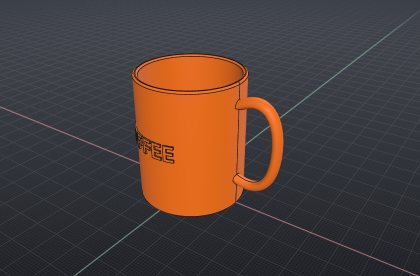
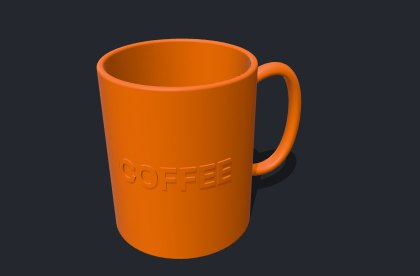
Polish: flat colours, cleaner pills, working Help menu, better examples
- Help menu on the home screen: How to move around and Find a tool now
  leave the home screen first (they opened behind it); Ctrl+K too.
- Delete account (and other confirm-to-delete buttons): a solid red
  button instead of red text on blue.
- The 'New here?' card has a close button that hides it for good.
- No gradients: flat startup screen, progress bar, tutorial card, picture
  frames and 3D view background.
- Pills: smaller, squarer corners; the update pill no longer jumps to the
  middle of the top bar while downloading (it shared the 'busy' class with
  the working indicator), and its icon and text are centred.
- Examples: pictures rendered with materials and shadows and framed
  closer, shown whole; a better phone stand (lip, angled back, cable hole);
  new spur gear and desk organizer.

Claude-Session: https://claude.ai/code/session_01JuhnazVxR9eac14QWc26d7

diff --git a/src/styles/app.css b/src/styles/app.css
@@ -1156,6 +1156,17 @@ body.resizing-panel .items-panel {
   color: var(--danger);
 }
 
+/* A confirming danger button (Delete…): solid red, white text. */
+.btn.primary.danger {
+  background: var(--danger);
+  border-color: var(--danger);
+  color: #fff;
+}
+
+.btn.primary.danger:hover {
+  background: color-mix(in srgb, var(--danger) 85%, #000);
+}
+
 .btn:disabled {
   opacity: 0.45;
   pointer-events: none;
@@ -1991,7 +2002,7 @@ body.resizing-panel .items-panel {
   align-items: center;
   gap: 8px;
   padding: 6px 12px;
-  border-radius: 20px;
+  border-radius: 8px;
   background: var(--glass);
   border: 1px solid var(--border);
   box-shadow: var(--shadow);
@@ -2092,7 +2103,7 @@ body.resizing-panel .items-panel {
   flex-direction: column;
   align-items: center;
   justify-content: center;
-  background: radial-gradient(ellipse at 50% 38%, #26334d 0%, #1c1d21 62%);
+  background: #1c1d21;
   color: #e8eaf0;
   transition: opacity 0.35s ease;
   user-select: none;
@@ -2150,7 +2161,7 @@ body.resizing-panel .items-panel {
   height: 100%;
   width: 6%;
   border-radius: 2px;
-  background: linear-gradient(90deg, #4c9dff, #7fb6ff);
+  background: var(--accent, #3d8bff);
   transition: width 0.5s ease;
 }
 
@@ -2599,15 +2610,40 @@ body.resizing-panel .items-panel {
 }
 
 /* The next tutorial. */
+.hn-close {
+  position: absolute;
+  top: 8px;
+  right: 8px;
+  width: 26px;
+  height: 26px;
+  display: grid;
+  place-items: center;
+  border: 0;
+  border-radius: 6px;
+  background: none;
+  color: var(--muted);
+}
+
+.hn-close:hover {
+  background: var(--panel-3);
+  color: var(--text);
+}
+
+.hn-close svg {
+  width: 15px;
+  height: 15px;
+}
+
 .home-next {
+  position: relative;
   display: flex;
   align-items: center;
   gap: 18px;
   margin-top: 24px;
-  padding: 20px 22px;
-  border-radius: 16px;
-  border: 1px solid rgba(61, 139, 255, 0.45);
-  background: linear-gradient(120deg, rgba(61, 139, 255, 0.2), rgba(61, 139, 255, 0.05) 70%);
+  padding: 20px 48px 20px 22px;
+  border-radius: 12px;
+  border: 1px solid var(--border);
+  background: var(--panel);
 }
 
 .hn-icon {
@@ -2616,9 +2652,9 @@ body.resizing-panel .items-panel {
   place-items: center;
   width: 54px;
   height: 54px;
-  border-radius: 14px;
-  background: var(--accent);
-  color: #fff;
+  border-radius: 10px;
+  background: var(--panel-3);
+  color: var(--accent);
 }
 
 .hn-icon svg {
@@ -2742,7 +2778,7 @@ body.resizing-panel .items-panel {
   height: 138px;
   display: grid;
   place-items: center;
-  background: radial-gradient(ellipse at 50% 40%, var(--panel-3), var(--panel-2));
+  background: var(--panel-2);
   background-size: cover;
   background-position: center;
 }
@@ -2825,6 +2861,23 @@ body.resizing-panel .items-panel {
   margin-bottom: 8px;
 }
 
+/* Cards of different text lengths: pictures stay at the top. */
+.example-card,
+.cloud-card {
+  display: flex;
+  flex-direction: column;
+  justify-content: flex-start;
+  align-items: stretch;
+}
+
+/* Example pictures are 420 × 276: keep that shape so nothing is cut off. */
+.example-card .thumb {
+  height: auto;
+  aspect-ratio: 420 / 276;
+  background-color: #24272d;
+  background-size: cover;
+}
+
 .home-lessons {
   display: grid;
   grid-template-columns: repeat(auto-fill, minmax(230px, 1fr));
@@ -2876,8 +2929,8 @@ body.resizing-panel .items-panel {
   font-weight: 600;
   text-transform: uppercase;
   letter-spacing: 0.05em;
-  padding: 2px 7px;
-  border-radius: 20px;
+  padding: 2px 6px;
+  border-radius: 4px;
 }
 
 .hl-level.lv1 {
@@ -3216,15 +3269,22 @@ body.resizing-panel .items-panel {
 .update-pill {
   display: inline-flex;
   align-items: center;
-  gap: 7px;
+  justify-content: center;
+  gap: 8px;
   height: 30px;
   padding: 0 12px;
-  border-radius: 15px;
+  border-radius: 8px;
   border: 1px solid var(--border);
   background: var(--panel-2);
   color: var(--text-2);
-  font-size: 12px;
+  font-size: 12.5px;
+  line-height: 1;
   white-space: nowrap;
+}
+
+.update-pill > span {
+  display: inline-flex;
+  align-items: center;
 }
 
 .update-pill.ready {
@@ -3250,14 +3310,14 @@ body.resizing-panel .items-panel {
 }
 
 .update-version {
-  padding: 1px 6px;
-  border-radius: 8px;
-  background: rgba(255, 255, 255, 0.22);
+  padding: 3px 6px;
+  border-radius: 4px;
+  background: rgba(0, 0, 0, 0.16);
   font-size: 11px;
   font-weight: 600;
 }
 
-.update-pill.busy {
+.update-pill.downloading {
   cursor: default;
 }
 

diff --git a/src/examples/examples.js b/src/examples/examples.js
@@ -157,16 +157,59 @@ export const EXAMPLES = [
   {
     id: 'phone-stand',
     title: 'Phone stand',
-    desc: 'A side profile pulled out to both sides, with a cable slot and rounded edges.',
+    desc: 'Holds a phone at a comfortable angle: a lip keeps it from sliding, and a hole under it lets the cable through.',
     icon: 'extrude',
     steps: [
-      ['sketch', { plane: 'XZ', shapes: [{ type: 'polygon', points: [[-45, 0], [45, 0], [45, 6], [-6, 6], [-2, 14], [8, 14], [-26, 92], [-34, 88], [-6, 18], [-14, 4], [-45, 6]] }] }, 'side'],
-      ['extrude', { sketch_id: '$side', distance: 70, symmetric: true, mode: 'new' }, 'body'],
-      ['sketch', { plane: 'XY', offset: 6, shapes: [{ type: 'slot', x: 20, y: 0, length: 36, width: 12, angle: 90 }] }, 'slot'],
-      ['extrude', { sketch_id: '$slot', distance: -6, mode: 'subtract' }],
-      ['fillet', { body_id: '$body', edges: 'all', radius: 1.5 }],
+      ['sketch', { plane: 'XZ', shapes: [{ type: 'polygon', points: [[-45, 0], [45, 0], [45, 5], [-8, 5], [36, 96], [30, 99], [-15.5, 5], [-36, 5], [-36, 16], [-44, 16], [-45, 15]] }] }, 'side'],
+      ['extrude', { sketch_id: '$side', distance: 72, symmetric: true, mode: 'new' }, 'body'],
+      ['sketch', { plane: 'XY', offset: 5, shapes: [{ type: 'slot', x: -26, y: 0, length: 26, width: 11, angle: 90 }] }, 'cable'],
+      ['extrude', { sketch_id: '$cable', distance: -5, mode: 'subtract' }],
+      ['fillet', { body_id: '$body', edges: 'all', radius: 1.6 }],
       ['set_color', { body_ids: ['$body'], color: '#37474f' }],
       ['rename', { id: '$body', name: 'Phone stand' }],
+    ],
+  },
+  {
+    id: 'gear',
+    title: 'Spur gear',
+    desc: 'A 20-tooth gear with spoke holes and a hub, made from one tooth repeated around the middle.',
+    icon: 'patternCircular',
+    steps: [
+      [
+        'sketch',
+        {
+          plane: 'XY',
+          shapes: [
+            { type: 'circle', x: 0, y: 0, radius: 30 },
+            { type: 'polygon', points: [[-3.1, 29], [3.1, 29], [1.5, 35.5], [-1.5, 35.5]], repeat: { count: 20, around: [0, 0] } },
+            { type: 'circle', x: 0, y: 18, radius: 5.5, hole: true, repeat: { count: 5, around: [0, 0] } },
+            { type: 'circle', x: 0, y: 0, radius: 9.5, hole: true },
+          ],
+        },
+        'wheel',
+      ],
+      ['extrude', { sketch_id: '$wheel', distance: 8, mode: 'new' }, 'body'],
+      ['sketch', { plane: 'XY', offset: 8, shapes: [{ type: 'circle', x: 0, y: 0, radius: 11, wall: 6 }] }, 'hub'],
+      ['extrude', { sketch_id: '$hub', distance: 6, mode: 'union' }],
+      ['sketch', { plane: 'XY', shapes: [{ type: 'circle', x: 0, y: 0, radius: 11 }, { type: 'rect', x: 0, y: 5.6, width: 3, height: 3, hole: true }, { type: 'circle', x: 0, y: 0, radius: 5, hole: true }] }, 'bore'],
+      ['extrude', { sketch_id: '$bore', distance: 8, mode: 'union' }],
+      ['set_color', { body_ids: ['$body'], color: '#90a4ae' }],
+      ['rename', { id: '$body', name: 'Gear' }],
+    ],
+  },
+  {
+    id: 'organizer',
+    title: 'Desk organizer',
+    desc: 'A hollow box with rounded corners and walls dividing it into three spaces, ready to print without supports.',
+    icon: 'shell',
+    steps: [
+      ['sketch', { plane: 'XY', shapes: [{ type: 'rect', x: 0, y: 0, width: 130, height: 80, corner_radius: 12 }] }, 'outline'],
+      ['extrude', { sketch_id: '$outline', distance: 70, mode: 'new' }, 'body'],
+      ['shell', { body_id: '$body', open_faces: ['top'], thickness: 2.4 }],
+      ['sketch', { plane: 'XY', offset: 2.4, shapes: [{ type: 'rect', x: -20, y: 0, width: 2.4, height: 76 }, { type: 'rect', x: 22, y: -18, width: 84, height: 2.4 }] }, 'walls'],
+      ['extrude', { sketch_id: '$walls', distance: 50, mode: 'union' }],
+      ['set_color', { body_ids: ['$body'], color: '#26a69a' }],
+      ['rename', { id: '$body', name: 'Organizer' }],
     ],
   },
   {

diff --git a/src/i18n/nb.js b/src/i18n/nb.js
@@ -1786,6 +1786,15 @@ export const NB = {
   'A circle needs a positive radius': 'En sirkel trenger positiv radius',
   'A regular_polygon needs sides ≥ 3 and a positive radius': 'En regulær mangekant trenger minst 3 sider og positiv radius',
   'A polygon needs at least 3 points': 'En mangekant trenger minst 3 punkter',
+  'Holds a phone at a comfortable angle: a lip keeps it from sliding, and a hole under it lets the cable through.': 'Holder mobilen i en behagelig vinkel: en kant hindrer den i å skli, og et hull under slipper ledningen gjennom.',
+  'Spur gear': 'Tannhjul',
+  'A 20-tooth gear with spoke holes and a hub, made from one tooth repeated around the middle.': 'Et tannhjul med 20 tenner, hull mellom eikene og et nav, laget av én tann gjentatt rundt midten.',
+  'Desk organizer': 'Skrivebordsorganisering',
+  'A hollow box with rounded corners and walls dividing it into three spaces, ready to print without supports.': 'En hul boks med avrundede hjørner og vegger som deler den i tre rom, klar til utskrift uten støtte.',
+  'Gear': 'Tannhjul',
+  'Organizer': 'Organiserer',
+  'Hide this (Tutorials stays in the sidebar)': 'Skjul dette (Veiledninger finnes fortsatt i sidepanelet)',
+  'Hide': 'Skjul',
   'ShaperBuild does not collect personal data unless you make an account. There is no tracking, no analytics and no advertising.': 'ShaperBuild samler ikke inn personopplysninger med mindre du lager en konto. Det finnes ingen sporing, ingen analyse og ingen reklame.',
   'Designs, settings, saved versions, thumbnails and crash-recovery copies stay on this computer, unless you save a design to the cloud.': 'Design, innstillinger, lagrede versjoner, miniatyrbilder og gjenopprettingskopier blir på denne datamaskinen, med mindre du lagrer et design i skyen.',
   'If you sign in, your email address and the designs you save to the cloud are stored with Supabase, and account emails are sent by Brevo. Only you can see your cloud designs. Delete account removes everything at once.': 'Hvis du logger inn, lagres e-postadressen din og designene du lagrer i skyen hos Supabase, og e-poster om kontoen sendes av Brevo. Bare du kan se designene dine i skyen. Slett konto fjerner alt med én gang.',
@@ -1883,7 +1892,6 @@ export const NB = {
   'Mug with a name': 'Krus med navn',
   'A turned mug with a swept handle and text wrapped around its side.': 'Et dreid krus med feid hank og tekst lagt rundt siden.',
   'Phone stand': 'Mobilstativ',
-  'A side profile pulled out to both sides, with a cable slot and rounded edges.': 'En sideprofil trukket ut til begge sider, med spor til ledningen og avrundede kanter.',
   'Spiral vase': 'Spiralvase',
   'A twelve-sided flower shape twisted a third of a turn, open at the top, with a solid base.': 'En tolvtakket blomsterform vridd en tredjedels omdreining, åpen i toppen og med tett bunn.',
   'Plant pot and saucer': 'Blomsterpotte og skål',

diff --git a/src/ui/home.js b/src/ui/home.js
@@ -150,12 +150,19 @@ export class Home {
     // Continue learning: the next tutorial not finished yet.
     const next = app.tutorial.nextLesson;
     const doneCount = app.tutorial.done.size;
-    if (next) {
+    if (next && !app.settings.hideNextTutorial) {
       const level = LEVELS.find((l) => l.id === next.level);
       const start = h('button.btn.primary.hn-start', { html: `${icon('play')}<span>${escapeHtml(doneCount ? t('Start') : t('Start the tutorial'))}</span>` });
       start.addEventListener('click', () => app.tutorial.start(next.id));
       const all = h('button.btn.hn-all', { text: 'All tutorials' });
       all.addEventListener('click', () => app.tutorial.library());
+      // Hide this card for good; the tutorials stay in the sidebar.
+      const hide = h('button.hn-close', { html: icon('close'), title: t('Hide this (Tutorials stays in the sidebar)'), 'aria-label': t('Hide') });
+      hide.addEventListener('click', () => {
+        app.settings.hideNextTutorial = true;
+        app.saveSettings();
+        hide.closest('.home-next')?.remove();
+      });
       main.append(
         h(
           'section.home-next',
@@ -169,6 +176,7 @@ export class Home {
             h('small', { str: t('{done} of {n} tutorials done', { done: doneCount, n: LESSONS.length }) }),
           ),
           h('div.hn-buttons', start, all),
+          hide,
         ),
       );
     }

diff --git a/src/app.js b/src/app.js
@@ -1089,10 +1089,15 @@ export class App {
   helpMenu(e) {
     const r = e.currentTarget.getBoundingClientRect();
     const m = modKey();
+    // These show in the workspace: leave the home screen first.
+    const inWorkspace = (fn) => () => {
+      if (!this.home.el.hidden) this.home.hide();
+      fn();
+    };
     showMenu(r.left, r.bottom + 6, [
       { label: 'Tutorials…', icon: 'learn', action: () => this.tutorial.library() },
-      { label: 'How to move around', icon: 'mouse', action: () => this.navHelp.toggle(true) },
-      { label: 'Find a tool', icon: 'search', kbd: `${m}K`, action: () => this.toolsMenu.focusSearch() },
+      { label: 'How to move around', icon: 'mouse', action: inWorkspace(() => this.navHelp.toggle(true)) },
+      { label: 'Find a tool', icon: 'search', kbd: `${m}K`, action: inWorkspace(() => this.toolsMenu.focusSearch()) },
       { label: 'Keyboard shortcuts', icon: 'keyboard', kbd: `${m}/`, action: () => this.dialogs.shortcuts() },
       { label: 'Getting started', icon: 'help', action: () => this.dialogs.gettingStarted() },
       '-',

diff --git a/src/view/theme.js b/src/view/theme.js
@@ -1,8 +1,9 @@
 // Colours used by the 3D view for each interface theme.
 export const THEMES = {
   dark: {
-    bgTop: '#3a3e47',
-    bgBottom: '#1c1e23',
+    // One flat colour (top and bottom are the same: no gradient).
+    bgTop: '#24272d',
+    bgBottom: '#24272d',
     body: '#c4ccd6',
     edge: '#16181c',
     hover: '#8cc0ff',
@@ -22,8 +23,8 @@ export const THEMES = {
     inference: '#ffb02e',
   },
   light: {
-    bgTop: '#f5f6f8',
-    bgBottom: '#d5d9df',
+    bgTop: '#e8eaee',
+    bgBottom: '#e8eaee',
     body: '#bcc5d0',
     edge: '#2a2d33',
     hover: '#5ea4ff',

diff --git a/src/view/viewport.js b/src/view/viewport.js
@@ -154,7 +154,7 @@ export class Viewport extends Emitter {
     this.themeName = name;
     this.theme = THEMES[name];
     this.ctx.theme = this.theme;
-    this.container.style.background = `linear-gradient(180deg, ${this.theme.bgTop} 0%, ${this.theme.bgBottom} 100%)`;
+    this.container.style.background = this.theme.bgTop;
     this.grid.setTheme(this.theme);
     for (const v of this.bodyViews.values()) v.applyColors();
     for (const v of this.sketchViews.values()) v.applyColors();

diff --git a/src/ui/updates.js b/src/ui/updates.js
@@ -67,7 +67,7 @@ export class Updates {
     }
     el.hidden = false;
     if (s.status === 'downloading') {
-      el.classList.add('busy');
+      el.classList.add('downloading');
       el.title = t('Downloading ShaperBuild {version}', { version: s.version });
       el.append(h('span.spinner'), h('span', { str: t('Updating to {version}', { version: s.version }) + (s.percent ? ` · ${s.percent}%` : '…') }));
     } else if (s.status === 'ready') {

diff --git a/src/ui/toolsmenu.js b/src/ui/toolsmenu.js
@@ -136,6 +136,7 @@ export class ToolsMenu {
 
   // Put the cursor in the search box (Ctrl+K).
   focusSearch() {
+    if (this.app.home && !this.app.home.el.hidden) this.app.home.hide();
     if (this.app.visual) this.app.setVisualization(false);
     this.input.focus();
     this.input.select();
